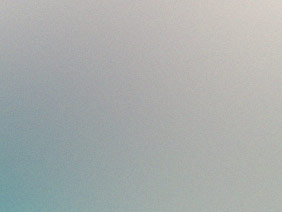
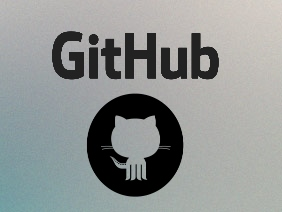
cleaning old work

Changed region(s): [[0.2837, 0.4245, 0.6525, 0.934], [0.1702, 0.1415, 0.7943, 0.3962]]

diff --git a/index.html b/index.html
@@ -22,25 +22,6 @@
 		<script type="text/javascript">
 			$(document).ready(function()
 			{
-				$("#imgAnimate1").hover(
-					function()
-					{
-						$(this).attr("src", "images/gif/zelda.gif");
-					},
-					function()
-					{
-						$(this).attr("src", "images/gifoff/zelda.jpg");
-					});
-					
-				$("#imgAnimate2").hover(
-					function()
-					{
-						$(this).attr("src", "images/gif/Flocking.gif");
-					},
-					function()
-					{
-						$(this).attr("src", "images/gifoff/Flocking.jpg");
-					});
 				$("#imgAnimate3").hover(
 					function()
 					{
@@ -49,24 +30,6 @@
 					function()
 					{
 						$(this).attr("src", "images/gifoff/circumference.jpg");
-					});
-				$("#imgAnimate4").hover(
-					function()
-					{
-						$(this).attr("src", "images/gif/bonsai.gif");
-					},
-					function()
-					{
-						$(this).attr("src", "images/gifoff/bonsai.jpg");
-					});
-				$("#imgAnimate5").hover(
-					function()
-					{
-						$(this).attr("src", "images/gif/scriptgif.gif");
-					},
-					function()
-					{
-						$(this).attr("src", "images/gifoff/scriptstill.jpg");
 					});
 			});
 		</script>
@@ -91,15 +54,10 @@
 						</div>
 
 					<!-- Thumb Items -->
-					
-						<article class="item thumb" data-width="274">
-							<h2>Some UnityEditor Tools I made</h2>
-							<a href="https://github.com/ManuelSilva/SevenPloX-UnityEditorTools" target="_blank"><img src="images/thumbs/unityTools.jpg" alt=""></a>
-						</article>
 						
-						<article class="item thumb" data-width="274">
-							<h2>Circumference - Python Game <br> Made by Manuel Silva and Ricardo Pereira</h2>
-							<a href="https://bitbucket.org/nocluepy/pygame" target="_blank"><img id="imgAnimate3" src="images/gifoff/circumference.jpg" alt=""></a>
+						<article class="item thumb" data-width="282">
+							<h2>Hey Check My GitHub!</h2>
+							<a href="https://github.com/ManuelSilva" target="_blank"><img src="images/thumbs/04.jpg" alt=""></a>
 						</article>
 						
 						<article class="item thumb" data-width="476">
@@ -107,31 +65,11 @@
 							<a href="testgrounds.html"><img src="images/thumbs/05.jpg" alt=""></a>
 						</article>
 						
-						<article class="item thumb" data-width="232">
-							<h2>In Touch - WorldGameJam2016</h2>
-							<a href="http://globalgamejam.org/2016/games/touch" target="_blank"><img id="imgAnimate4" src="images/gifoff/bonsai.jpg" alt=""></a>
+						<article class="item thumb" data-width="274">
+							<h2>Circumference - Python Game <br> Made by Manuel Silva and Ricardo Pereira</h2>
+							<a href="https://bitbucket.org/nocluepy/pygame" target="_blank"><img id="imgAnimate3" src="images/gifoff/circumference.jpg" alt=""></a>
 						</article>
 						
-						<article class="item thumb" data-width="384">
-							<h2>Flocking Experiments</h2>
-							<a href="https://github.com/ManuelSilva/FlockingExperiments" target="_blank"><img id="imgAnimate2" src="images/gifoff/Flocking.jpg" alt=""></a>
-						</article>
-						
-						<article class="item thumb" data-width="282">
-							<h2>Automata Experiments</h2>
-							<a href="https://github.com/ManuelSilva/AutomataExperiments" target="_blank"><img id="imgAnimate1" src="images/gifoff/zelda.jpg" alt=""></a>
-						</article>
-						
-						<article class="item thumb" data-width="476">
-							<h2>Tiles Domination - Digital Board Game <br>Designed by Giovanna Mateus and Programmed by Manuel Silva</h2>
-							<a href="https://github.com/ManuelSilva/TilesDomination" target="_blank"><img id="imgAnimate5" src="images/gifoff/scriptstill.jpg" alt=""></a>
-						</article>
-						
-						
-						<article class="item thumb" data-width="282">
-							<h2>More Coming Soon...</h2>
-							<a><img src="images/thumbs/04.jpg" alt=""></a>
-						</article>
 						
 						<!--
 						<article class="item thumb" data-width="476">
